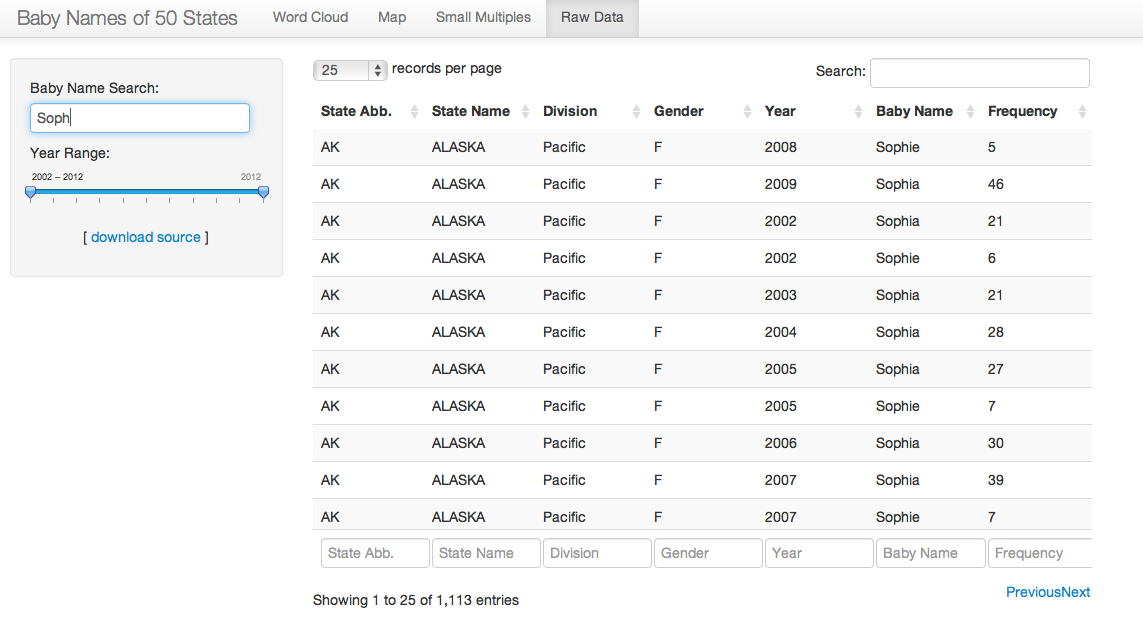
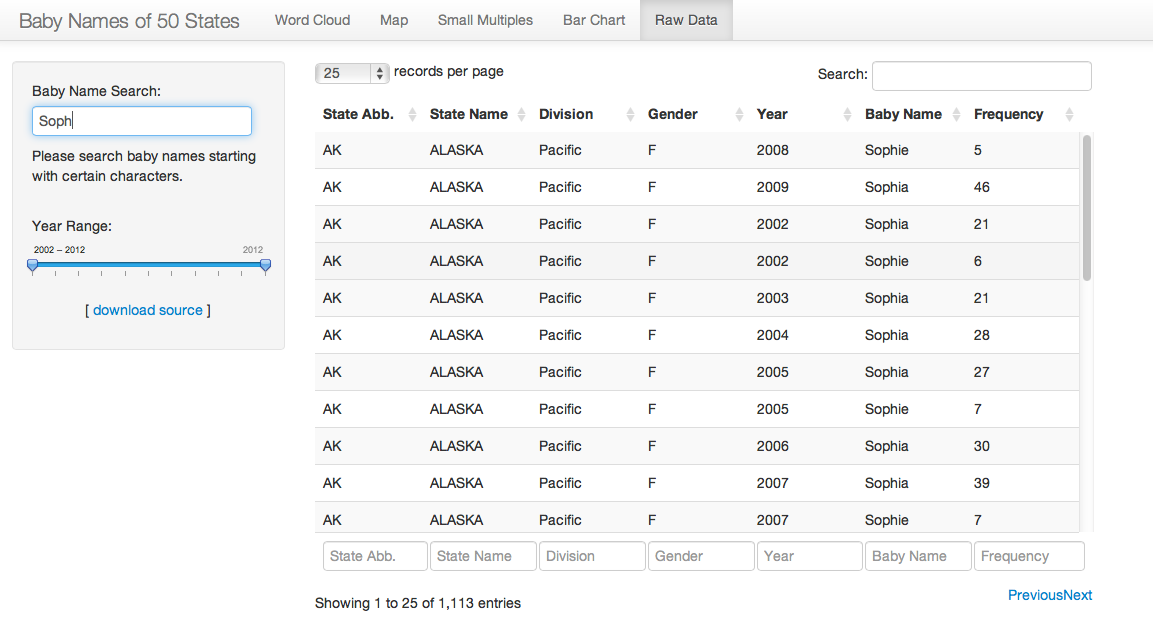
uploading project

diff --git a/final-project/README.md b/final-project/README.md
@@ -30,47 +30,145 @@ This will start the `shiny` app. See below for details on how to interact with t
 
 ## Data Set ##
 
-In this final project, I visualized the top 1,000 names of baby born during 2002 and 2012 in U.S 50 States. The dataset I obtained was from the Official Social Security Website `http://www.ssa.gov/OACT/babynames/limits.html`. The original data was stored in `TXT` files with each file storing baby name frequency from 1910 to 2012. Due to the storage limitation of my GitHub repository, I used only data from 2002 to 2012 for this visualization. 
+In this project, I visualized the top 1,000 names of baby born during 2002 and 2012 in 50 States in U.S. The dataset I obtained was from the Official Social Security Website `http://www.ssa.gov/OACT/babynames/limits.html`. The original data were stored in `TXT` files with each file storing baby name frequency from 1910 to 2012. Due to the storage limitation of my GitHub repository, I only used data from 2002 to 2012 for this visualization. 
 
-Except merging the data from `TXT` files to a `csv` file, I also combined the State Divisions (New England, Middle Atlantic, South Atlantic, East South Central, West South Central, East North Central, West North Central, Mountain, and Pacific) from the `US State Facts and Figures` dataset stored in R. 
+Except merging the data from `TXT` files into a `csv` file, I also combined the State Divisions (New England, Middle Atlantic, South Atlantic, East South Central, West South Central, East North Central, West North Central, Mountain, and Pacific) from the `US State Facts and Figures` dataset stored in R. 
 
 In addition, I merged the longitude and latitude of each state to my dataset to visualize the baby name frequency in the U.S map. Please find the further discussion below.
 
-After extracting and combining data from various sources, I had the dataset with 988,973 rows and 7 columns (over 1 million rows and 12 columns in the dataset using for map visualization).
+After extracting and combining data from various sources, I had the dataset with 988,973 rows and 7 columns (over 1 million rows and 12 columns in the dataset using for map visualization). The 7 columns include: `State` represents the state abbreviation, `region` represents the state name, `Division` represents the state division, `Sex` represents baby's gender, `Year` represents which year the name was collected, `Name` represents baby name, and `Number` represents the name frequency. 
 
-## Interactivity ##
+## Discussion ##
 
-There are four panels in the shiny app. They are `Word Cloud`, `Map`, `Small Multiples`, and `Raw Data`. Each panel has its own filters and control options.
+In general, I chose to implement four distinct visualizations of this baby names data set and integrated all four visualizations into a shiny app. There are five panels in the shiny app. They are `Word Cloud`, `Map`, `Small Multiples`, `Bar Chart` and `Raw Data`. Each panel has its own filters and control options. Please find the detailed discussions about each technique as bellows.
 
-### Word Cloud ###
+## Panel 1: Word Cloud ##
 
-In the `Word Cloud` panel, a user has the option to visualize the word cloud of baby names in various states, years, and genders. Also, a user could choose the number of words he would like to view in the cloud and download the source code from my GitHub repository through the `download source` link.
+### Technique ###
 
-By viewing this word cloud, a user could easily find out which names are the most frequently used in girls/boys in different states or in the 50 states. For example, `Daniel`, `Jacob`, `Matthew` and `Ethan` are the most frequently used boy names in the U.S. as showing in the following graph.
+The first technique I chose to implement is Word Cloud. Since the data set includes top 1,000 baby names in 50 states, word cloud is a wonderful visualization for these names because it has a great readability of words in the cloud and is easy to provide users a general impression about which names are the most popular ones. 
+
+To get the right data for visualization, I mapped the data in the following two steps:
+
+1. Filtered the data by `Sex` and `State` to obtain a subset of data.
+2. Aggregated the `Number` by `Sex`, `Year` and `Name`.
+
+After mapping the data, I obtained a subset of data containing 4 columns: `Number`, `Sex`, `Year` and `Name`. Then I visualized the baby names by their frequency in the word cloud. 
+
+### Interactivity ###
+
+In the `Word Cloud` panel, an user has the option to visualize the word cloud of baby names. Specifically, three filters including state, gender and year allow an user to focus on her interested subset of data. Also, a user can vary the number of words he would like to view in the cloud. In addition, the source code can be downloaded from my GitHub repository through the `download source` link.
+
+By viewing this word cloud, a user could easily find out which names are the most frequently used in girls/boys in different states or across the country within a specific year. For example, `Mason`, `William`, `Ethan` and `Jacob` are the most frequently used boy names in the U.S. as showing in the following graph.
 
 ![word_cloud](word_cloud.png)
 
-### Map ###
+## Panel 2: Map ##
 
-In the `Map` panel, a user could visualize the name density in the U.S. map. By searching a specific baby name in the search box, the plot shows the density of that name in the map. Also, the user has the option to choose the year, gender and color pallet he wants to see in the map. 
+### Technique ###
 
-In order to visualize the name density in a map, I need to merge the longitude and latitude of each state to the dataset. Since I have a very large dataset, this step takes a very long time to process, I chose to filter the data by name first and then created a data frame with original data and the map data. The map data with longitude, latitude, group and order is extracted using `map_data` function in `ggplot2`.  
+The second technique I chose to implement is Map. Since the state information is included in the data set, map is actually a great implementation to visualize the name frequency.
+
+To get the right data for visualization, I mapped the data in the following two steps:
+
+1. filtered the data by `Name`, `Year` and `Gender` to obtain a subset of data. When filtering by name, the name has to be chosen as a specific baby name not a name starting with certain characters.
+
+2. merged the subset of data obtained from the first step with a map data, which includes state's longitude, latitude, group, order, region and sub region, by `region`. The map data was obtained using `map_data` function in `ggplot2`. Since I have a very large dataset, this step takes a very long time to process. So I only performed the merging on the subset of data. 
+
+After mapping the data, I obtained a subset of data with 12 columns: `State`, `region`, `Division`, `Sex`, `Year`, `Name`, `Number`, `long`, `lat`, `group`, `order` and `subregion`. Then I split the name frequency into 5 intervals and visualized density of a specific name by its geo-location on the map. 
+
+### Interactivity ###
+
+In the `Map` panel, a user could search a specific baby name in the search box, which is not case non-sensitive. Searching `Sophie` and `sophie` would give the same result in this case. I also provided a hint under the search box to remind him to search a specific name or find one in the `Raw Data` panel. Also, the user has the option to filter the visualization by year and gender, and view the map with different color pallets. As same as other panels, the user could download the source code from my GitHub repository through the `download source` link.
+
+With this visualization, for example, a user could find out girls in which state were named as `Sophie` more frequently than the other states. In this particular example, the name `Sophie` has larger density in California, Texas, Florida, and New York in 2012. Also, there is no girl was named as `Sophie` in Wyoming in this year.
 
 ![map](map.png)
 
-### Small Multiples ###
+## Small Multiples ##
 
-In the `Small Multiples` panel, a user could have a better understand of the number of baby with top names in various states. I provided the `Radar Chart` for each state. The user could also choose which state division he would like to show in the graph. For example, in the West South Central, there are four states within this division. Texas has the largest number of baby with top names over the 10 years. Also, the number of babies are very consistent for all four states. 
+### Technique ###
+
+The third technique I chose to implement is Small Multiples. Each chart in this small multiples plot is a radar chart of each state. By viewing this plot, a user could have a better understand of the number of baby with top names in various states. 
+
+To get the right data for visualization, I mapped the data in the following two steps:
+
+1. Filtered the data by `Name` and `Gender` to obtain a subset of data. 
+2. Aggregated the `Number` by `State` and `Year`.
+
+After mapping the data, I obtained a subset of data with 3 columns: `State`, `Year` and `Number`. Then I visualized the radar chart for each state and wrap the charts by state division.
+
+In the radar chart, the y-axis is the total number of babies who have these top 1,000 ranked names and the x-axis or the axis in the circle is the year. 
+
+### Interactivity ###
+
+In the `Small Multiples` panel, a user has the option to choose which state division and gender he would like to view in the graph. By default, he will see the radar charts of 50 states for both girls and boys. As same as other panels, the user could download the source code from my GitHub repository through the `download source` link.
+
+For example, in the West South Central, there are four states within this division. Texas has the largest number of baby with top names over the 10 years. Also, the numbers of babies are very consistent for all four states. 
 
 ![small](small.png)
 
-### Raw Data ###
+## Bar Chart ##
 
-In the `Raw Data` panel, a user could search, filter and sort the raw data. Since the `Map` panel requires a user to search a specific baby name, it is good to have this raw data table provided here to allow user to search a specific name if he doesn't have one in his mind. This table lists 25 results on each page in default. The user could view the data on the next page by clicking on the `Next` button or view more results on each page by choosing the number of records per page. 
+### Technique ###
+
+The Fourth technique I chose to implement is Bar Chart. In the small multiples above, a user had detailed information about the total number of babies with top names of each state over 10 years in different divisions. In this bar chart, he would have a even better understanding about the total number of babies with top names in different divisions in each year. 
+
+To get the right data for visualization, I mapped the data in the following two steps:
+
+1. Filtered the data by `Year` to obtain a subset of data. 
+2. Aggregated the `Number` by `Division`.
+
+After mapping the data, I obtained a subset of data with 2 columns: `Division` and `Number`. Then I visualized the bar chart of total number of babies with top names for 9 state divisions.
+
+### Interactivity ###
+
+In the `Bar Chart` panel, a user has the option to choose which year he would like to view the total number of babies of 9 different divisions. Also, he could choose to view the bars in an alphabetical order or sorted order by name frequency. As same as other panels, the user could download the source code from my GitHub repository through the `download source` link.
+
+For example, when sorting the bars by name frequency, the user could realize the order of bars in the plot has been changed and find out the South Atlantic division has the largest number of babies with top names among all nine divisions in 2012. 
+
+![bar](bar.png)
+
+## Raw Data ##
+
+### Technique ###
+
+There are two purpose of showing the raw data here. First, a user could search a specific baby name from this table if he doesn't come up with one to visualize it in the `Map` panel. Second, the user could have a good understanding about what data he is visualizing. 
+
+To get the right data for visualization, I mapped the data in the following two steps:
+
+1. Filtered the data by `Name` to obtain a subset of data. Different to the search box in the `Map` panel, here the user could search names starting with certain characters. 
+
+2. Subset the data obtained in the first step above in various year ranges.
+
+After mapping the data, I obtained a subset of data with 7 columns: `State`, `region`, `Division`, `Sex`, `Year`, `Name` and `Number`.
+
+### Interactivity ###
+
+In the `Raw Data` panel, a user could search, filter and sort the raw data. In the search box, a user could search baby names starting with certain characters. By moving the slide bars, he could adjust different year ranges he would like to search the data. There are also other search boxes and filter bars in the table to allow user performing various filters. 
+
+By default, this table lists 25 results on each page in default. The user could view the data on the next page by clicking on the `Next` button or view more results on each page by choosing the number of records per page. 
 
 ![raw_data](raw_data.png)
 
-## Challenge ##
+
+## Prototype Feedback ##
+
+### Original Feedback ###
+
+1. Enabling users to search names with any letters they want to include in a name.
+2. taking care of the situation when there is no name matches the searching criteria in the search box.
+3. Making a comparison word cloud to make the plot more complex.
+
+### Changes or Arguments ###
+
+1. In order to allow users searching any names in the search box, I made two changes in my visualizations. First, the search box I made in the map panel is not case sensitive. If a user searches `Sophie` and another user searches `sophie`, they will both get the same visualization. Second, the search box in the `Raw Data` panel takes not only a whole name but also the first few characters in a name. This search box is case non-sensitive too. 
+
+2. To deal with the situation when there is no name matches the searching criteria in the search box, I created an empty map with no color in it. The default graph is this empty map. If a specific name a user searches in the box found a match in the data set, the graph will show the name density in the map. If it doesn't find a match, then the empty map will appear in the shiny app.
+
+3. I tried to implement the comparison word cloud, which could definitely make the plot more complex. But I don't have a variable in the data set with fewer categories. The `Division` has 9 categories and the `State` has 50 categories. A comparison word cloud with 9 or more categories doesn't look very nice. I think the comparison word cloud would be better for a situation where there are 2 or 3 categories in a certain variable. Even the `Sex` has 2 categories in the data set, the baby names in these two categories are actually not correlated to each other. So it will not make much sense to compare the baby names within these two categories.
+
+## Challenges ##
 
 There are some challenges I had during the whole process of this project. 
 
@@ -79,5 +177,6 @@ First, the original dataset has only 5 columns including `State`, `Sex`, `Year`,
 Second, I planed to show the stacked area plot for the baby names starting with specific characters that a user puts in the search box. Due to the missing data of some names in particular years and limitation of the data size, I was not able to provide the plot. But it was still very nice to try it. 
 
 In general, I used most of the techniques I learned during this semester and also explored the `ggmap` for this final project. I found the shiny app is very powerful tool to visualize the interactive plots and will consider using this technique for in the future. 
+
 
 
